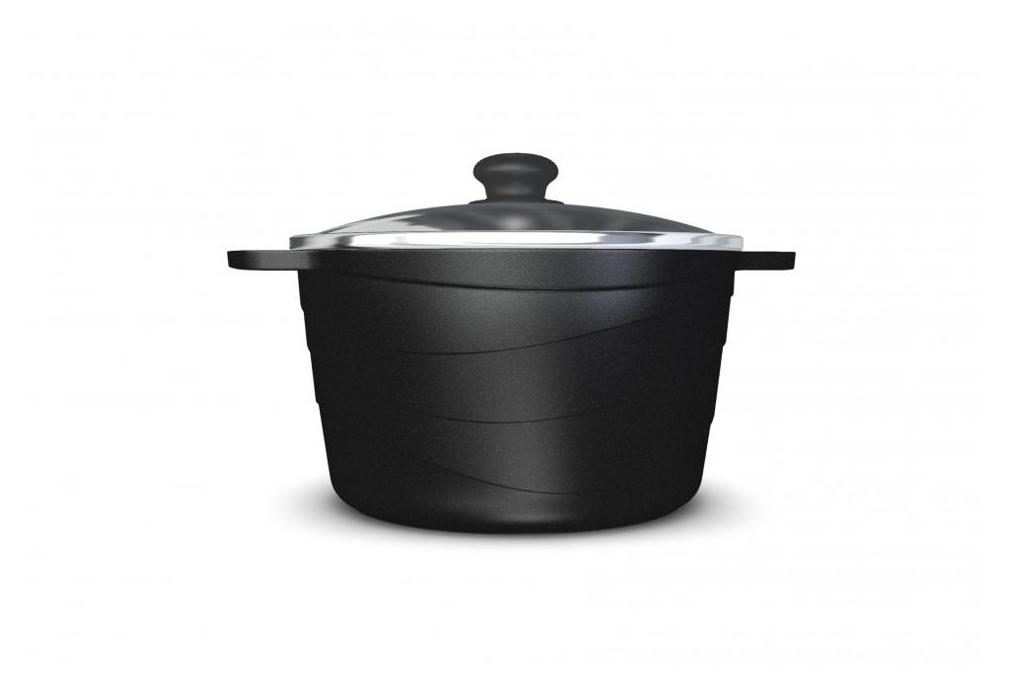
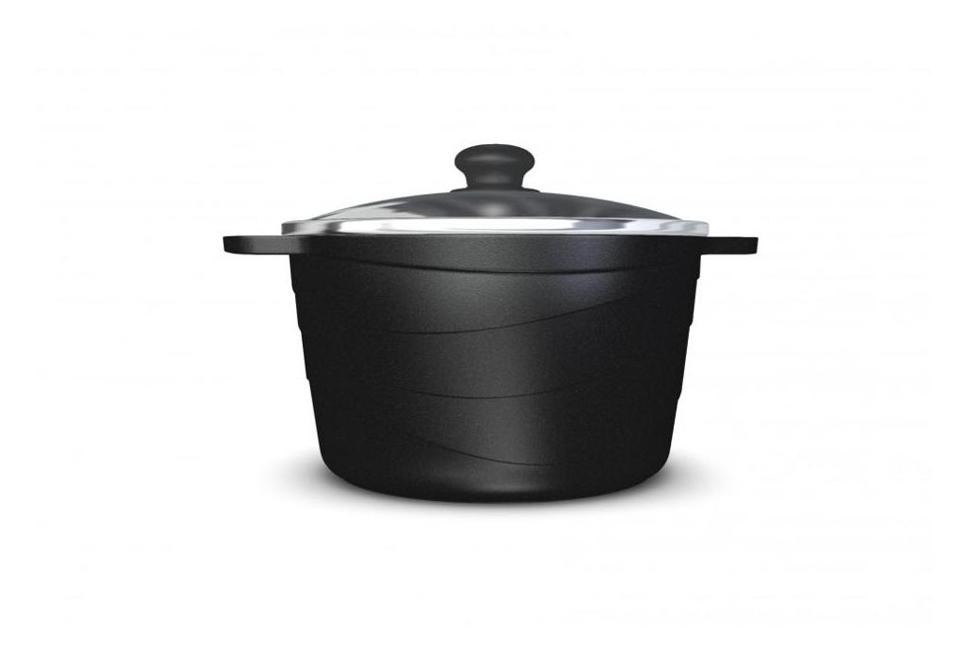
improve image size, furniture

diff --git a/litaya.html b/litaya.html
@@ -1666,6 +1666,7 @@ var message = "";
                                 <div class="nmp-features-info-graph_item __washing"></div>
                                 <div class="nmp-features-info-graph_item __heat"></div>
                                 <div class="nmp-features-info-graph_item __gas"></div>
+                                <div class="nmp-features-info-graph_item __handle"></div>
                                 <div class="nmp-features-info-graph_item __electro"></div>
                                 <div class="nmp-features-info-graph_item __glass-ceramic"></div>
                                 <div class="clear-both"></div>
@@ -1760,7 +1761,6 @@ var message = "";
                             <p class="secondary">Артикул: 18124</p>
                             <div class="nmp-features-info-graph">
                                 <div class="nmp-features-info-graph_item __washing"></div>
-                                <div class="nmp-features-info-graph_item __heat"></div>
                                 <div class="nmp-features-info-graph_item __gas"></div>
                                 <div class="nmp-features-info-graph_item __electro"></div>
                                 <div class="nmp-features-info-graph_item __glass-ceramic"></div>
@@ -1837,7 +1837,6 @@ var message = "";
                             <p class="secondary">Артикул: 186525</p>
                             <div class="nmp-features-info-graph">
                                 <div class="nmp-features-info-graph_item __washing"></div>
-                                <div class="nmp-features-info-graph_item __heat"></div>
                                 <div class="nmp-features-info-graph_item __gas"></div>
                                 <div class="nmp-features-info-graph_item __electro"></div>
                                 <div class="nmp-features-info-graph_item __glass-ceramic"></div>
@@ -1857,7 +1856,6 @@ var message = "";
                             <p class="secondary">Артикул: 186530</p>
                             <div class="nmp-features-info-graph">
                                 <div class="nmp-features-info-graph_item __washing"></div>
-                                <div class="nmp-features-info-graph_item __heat"></div>
                                 <div class="nmp-features-info-graph_item __gas"></div>
                                 <div class="nmp-features-info-graph_item __electro"></div>
                                 <div class="nmp-features-info-graph_item __glass-ceramic"></div>
@@ -1877,7 +1875,6 @@ var message = "";
                             <p class="secondary">Артикул: 186540</p>
                             <div class="nmp-features-info-graph">
                                 <div class="nmp-features-info-graph_item __washing"></div>
-                                <div class="nmp-features-info-graph_item __heat"></div>
                                 <div class="nmp-features-info-graph_item __gas"></div>
                                 <div class="nmp-features-info-graph_item __electro"></div>
                                 <div class="nmp-features-info-graph_item __glass-ceramic"></div>
@@ -1897,7 +1894,9 @@ var message = "";
                             <p class="secondary">Артикул: 186550</p>
                             <div class="nmp-features-info-graph">
                                 <div class="nmp-features-info-graph_item __washing"></div>
-                                <div class="nmp-features-info-graph_item __heat"></div>
+                                <div class="nmp-features-info-graph_item __gas"></div>
+                                <div class="nmp-features-info-graph_item __electro"></div>
+                                <div class="nmp-features-info-graph_item __glass-ceramic"></div>
                                 <div class="clear-both"></div>
                             </div>
                             <div class="image-wrap">
@@ -2032,8 +2031,6 @@ var message = "";
                             <p class="secondary">Артикул: 186317</p>
                             <div class="nmp-features-info-graph">
                                 <div class="nmp-features-info-graph_item __washing"></div>
-                                <div class="nmp-features-info-graph_item __heat"></div>
-                                <div class="nmp-features-info-graph_item __handle"></div>
                                 <div class="nmp-features-info-graph_item __gas"></div>
                                 <div class="nmp-features-info-graph_item __electro"></div>
                                 <div class="nmp-features-info-graph_item __glass-ceramic"></div>
@@ -2101,6 +2098,9 @@ var message = "";
                                 <div class="nmp-features-info-graph_item __washing"></div>
                                 <div class="nmp-features-info-graph_item __heat"></div>
                                 <div class="nmp-features-info-graph_item __handle"></div>
+                                <div class="nmp-features-info-graph_item __gas"></div>
+                                <div class="nmp-features-info-graph_item __electro"></div>
+                                <div class="nmp-features-info-graph_item __glass-ceramic"></div>
                                 <div class="clear-both"></div>
                             </div>
                             <div class="image-wrap">
@@ -2138,6 +2138,9 @@ var message = "";
                             <p class="secondary">Артикул: 19122</p>
                             <div class="nmp-features-info-graph">
                                 <div class="nmp-features-info-graph_item __washing"></div>
+                                <div class="nmp-features-info-graph_item __gas"></div>
+                                <div class="nmp-features-info-graph_item __electro"></div>
+                                <div class="nmp-features-info-graph_item __glass-ceramic"></div>
                                 <div class="clear-both"></div>
                             </div>
                             <div class="image-wrap">
@@ -2173,6 +2176,9 @@ var message = "";
                             <p class="secondary">Артикул: 19126</p>
                             <div class="nmp-features-info-graph">
                                 <div class="nmp-features-info-graph_item __washing"></div>
+                                <div class="nmp-features-info-graph_item __gas"></div>
+                                <div class="nmp-features-info-graph_item __electro"></div>
+                                <div class="nmp-features-info-graph_item __glass-ceramic"></div>
                                 <div class="clear-both"></div>
                             </div>
                             <div class="image-wrap">
@@ -2230,6 +2236,7 @@ var message = "";
                             </h2>
                             <p class="secondary">Артикул: 16124</p>
                             <div class="nmp-features-info-graph">
+                                <div class="nmp-features-info-graph_item __washing"></div>
                                 <div class="nmp-features-info-graph_item __gas"></div>
                                 <div class="nmp-features-info-graph_item __electro"></div>
                                 <div class="nmp-features-info-graph_item __glass-ceramic"></div>
@@ -2249,6 +2256,9 @@ var message = "";
                             <p class="secondary">Артикул: 16126</p>
                             <div class="nmp-features-info-graph">
                                 <div class="nmp-features-info-graph_item __washing"></div>
+                                <div class="nmp-features-info-graph_item __gas"></div>
+                                <div class="nmp-features-info-graph_item __electro"></div>
+                                <div class="nmp-features-info-graph_item __glass-ceramic"></div>
                                 <div class="clear-both"></div>
                             </div>
                             <div class="image-wrap">
@@ -2265,6 +2275,9 @@ var message = "";
                             <p class="secondary">Артикул: 16128</p>
                             <div class="nmp-features-info-graph">
                                 <div class="nmp-features-info-graph_item __washing"></div>
+                                <div class="nmp-features-info-graph_item __gas"></div>
+                                <div class="nmp-features-info-graph_item __electro"></div>
+                                <div class="nmp-features-info-graph_item __glass-ceramic"></div>
                                 <div class="clear-both"></div>
                             </div>
                             <div class="image-wrap">

diff --git a/titan.html b/titan.html
@@ -289,8 +289,6 @@ var message = "";
                             <p class="secondary">Артикул: 8128</p>
                             <div class="nmp-features-info-graph">
                                 <div class="nmp-features-info-graph_item __washing"></div>
-                                <div class="nmp-features-info-graph_item __heat"></div>
-                                <div class="nmp-features-info-graph_item __handle"></div>
                                 <div class="nmp-features-info-graph_item __gas"></div>
                                 <div class="nmp-features-info-graph_item __electro"></div>
                                 <div class="nmp-features-info-graph_item __glass-ceramic"></div>
